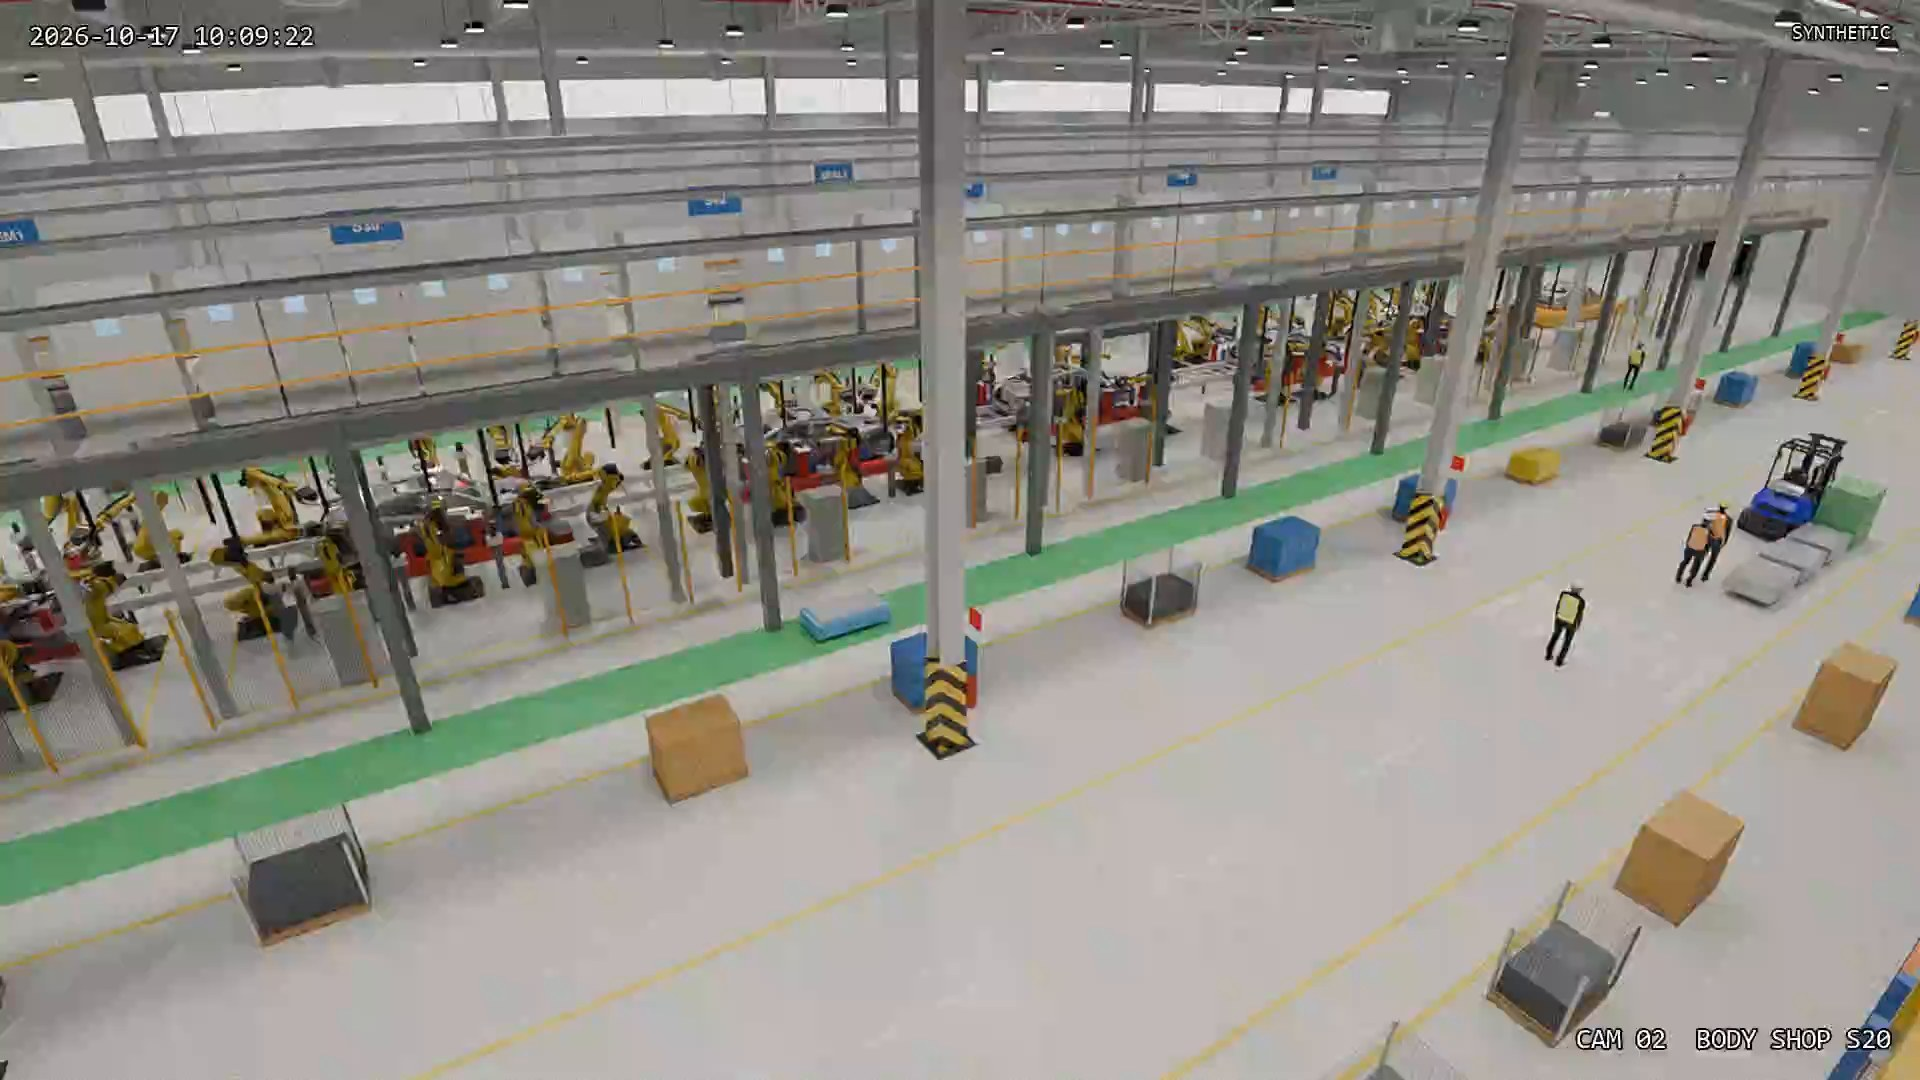
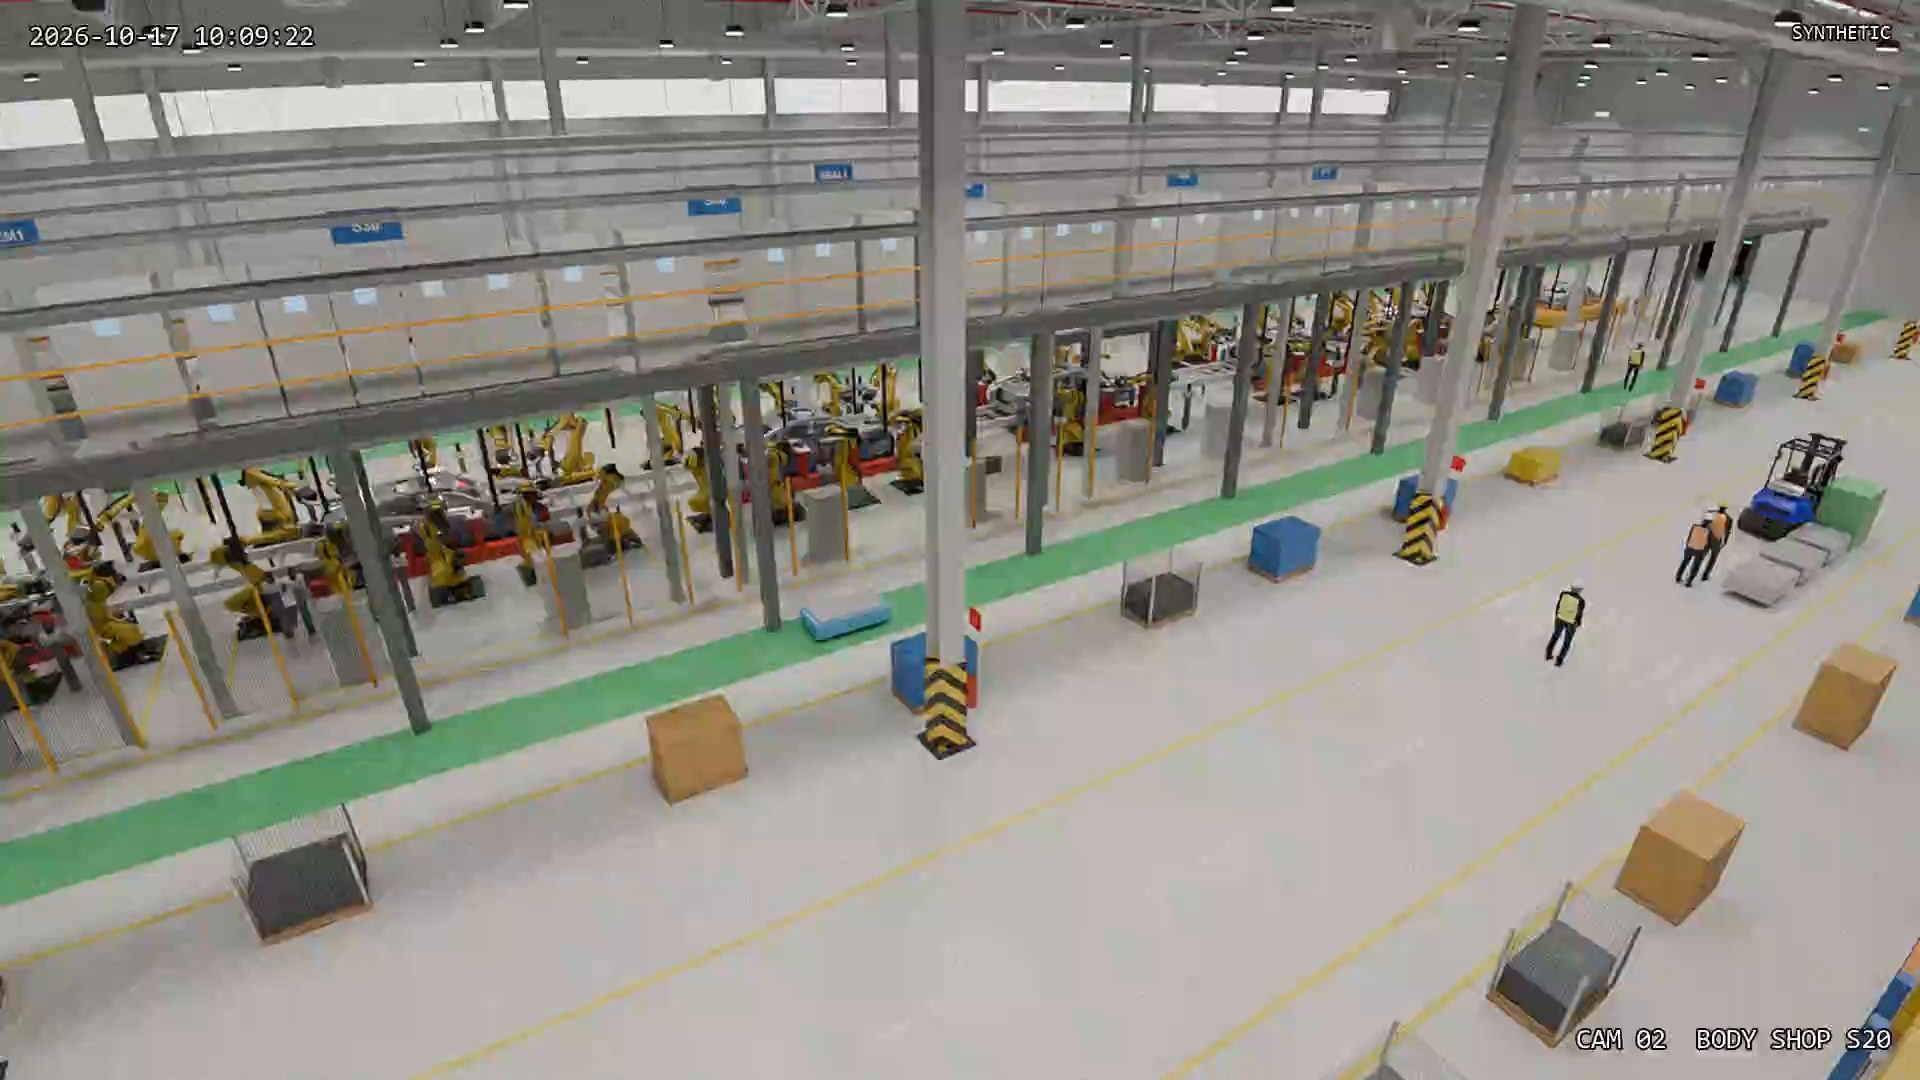
X: compare_line camera (reference photo viewpoint) for compare_wide; tip dresser side choice ignores its own robot
- scene_real.py: still "compare_line", 7 m above the line axis near S20 looking down +x, ~95 deg lens
- _tip_dresser measured clearance against its own base too, so the clearer side was almost never chosen
- render/stills/dense refreshed (compare_wide now from compare_line)

diff --git a/render/blender/scene_real.py b/render/blender/scene_real.py
@@ -37,6 +37,7 @@ core = rb.core
 CCTV_Z = 9.0
 FORKLIFT_YAW_DEG = 90.0       # forklift_c forks point to -Y in the library; +90 deg turns them to +X
 BODY_CORNER = (2.1, 0.8)     # m from the station centre: where the corner robots weld (BIW is 4.65 x 1.74 m)
+COMPARE_LINE_X, COMPARE_LINE_Z, COMPARE_LINE_DX = 15.5, 7.0, 14.0   # compare_line camera: x, height, look-at run (m)
 FRAME_Z = 4.4               # m, top of the overhead cell frame (dress cables, trays); CCTV at 9 m looks over it
 END_REACH = 1.8             # m, base -> gun tip of the FANUC weld poses (fanuc.WELD_Q)
 ARM_REACH_STANDOFF = 2.65    # m, line centre -> FANUC base for on-line cells
@@ -149,7 +150,7 @@ class RealScene(rb.BScene):
             px, py = x - sd * 0.85 * hy - 0.3 * hx, y + sd * 0.85 * hx - 0.3 * hy
             if abs(px - cx) > w / 2 - 0.3 or abs(py - cy) > d / 2 - 0.3 or abs(py - cy) < 1.6:
                 continue
-            clear = min(math.hypot(px - bx, py - by) for bx, by in bases)
+            clear = min(math.hypot(px - bx, py - by) for bx, by in bases if (bx, by) != (x, y))   # other robots only
             if best is None or clear > best[0]:
                 best = (clear, px, py)
         if best is None or best[0] < 0.7:
@@ -475,6 +476,9 @@ class RealScene(rb.BScene):
 def still_cam(name: str, scn: dict) -> "core.Cam":
     if name == "wide":                                         # high corner view down the whole line
         return core.Cam((1.2, 46.5, 8.4), (50.0, 19.0, 0.0), 19.0)
+    if name == "compare_line":                                 # the reference photo's viewpoint: above the line axis near
+        y = next(m["z"] for m in scn["machines"] if m.get("on_line"))  # S20, looking down it (+x), ~95 deg wide lens
+        return core.Cam((COMPARE_LINE_X, y, COMPARE_LINE_Z), (COMPARE_LINE_X + COMPARE_LINE_DX, y, 0.0), 16.5)
     if name == "weld_close":                                   # in the S30 north light-curtain opening, on the middle robot's gun
         m = next(mm for mm in scn["machines"] if mm["id"] == "S30")
         y = m["z"] + m["size"][1] / 2
@@ -488,7 +492,7 @@ def still_cam(name: str, scn: dict) -> "core.Cam":
         else:
             tgt = (x + 10.0 if x < 60 else x - 10.0, y + 16.0 if y < 24 else y - 16.0, 0.0)
         return core.Cam((x, y, CCTV_Z), tgt, 17.5)            # ~91 deg horizontal, like a 2.8 mm CCTV lens
-    raise SystemExit(f"unknown still {name!r}: wide | weld_close | cctv_<i>")
+    raise SystemExit(f"unknown still {name!r}: wide | compare_line | weld_close | cctv_<i>")
 
 
 def label_synthetic(png: Path) -> None:

diff --git a/docs/RENDER.md b/docs/RENDER.md
@@ -24,7 +24,7 @@ visible to a camera), capsule people, the wheeled AMR (robot shots are R4's).
 Commands (repo root, PowerShell; `$B` = `C:\Program Files\Blender Foundation\Blender 5.1\blender.exe`):
 ```powershell
 & $B -b --factory-startup --python render\blender\bl_run.py -- render\blender\scene_real.py --trace <trace.parquet> --synth-bodies `
-    --out D:\icdata\renders\stills --stills wide,weld_close,cctv_1,cctv_5 --t 36562.8167 --samples 128 --res 1920x1080 --gt
+    --out D:\icdata\renders\stills --stills compare_line,wide,weld_close,cctv_1,cctv_5 --t 36562.8167 --samples 128 --res 1920x1080 --gt
 & $B ... scene_real.py --trace <trace> --synth-bodies --out D:\icdata\renders\seq --cctv-seq cctv_1 --t 36620 --seconds 10 --fps 25 --gt
 $env:PYTHONPATH="D:\icdata\pylib"; python -m render.cctv.cctv_post --in D:\icdata\renders\seq\cctv_1\frames --gt D:\icdata\renders\seq\cctv_1\gt `
     --out D:\icdata\renders\seq\cctv_1\cctv --cam CAM02 --cam-label "BODY SHOP S20" --t0 "2026-10-17 10:10:20" --fps 25 --overscan 0.055 --video
@@ -41,6 +41,8 @@ Brightness + density pass (`render/stills/dense/`, `--t 36562.8167`): light-grey
 150 W each (`--light-e`), 8 robots per 8 m weld/respot cell (4 corner, 2 middle, 4 angled onto the body ends; the 7 m
 cell gets 8 without the middle pair), a tip dresser beside every robot, and an overhead cell frame (4.4 m) with cable
 trays and a dress-cable drop to each robot. All of it stays inside the station rects of `bodyshop.yaml`.
+`compare_line` (still name) is the reference photo's viewpoint: 7 m above the line axis at x 15.5, looking down +x, 16.5 mm
+(~95 deg); `compare_wide.jpg` uses it.
 
 # Photoreal render tier: decision, research, shot list
 
